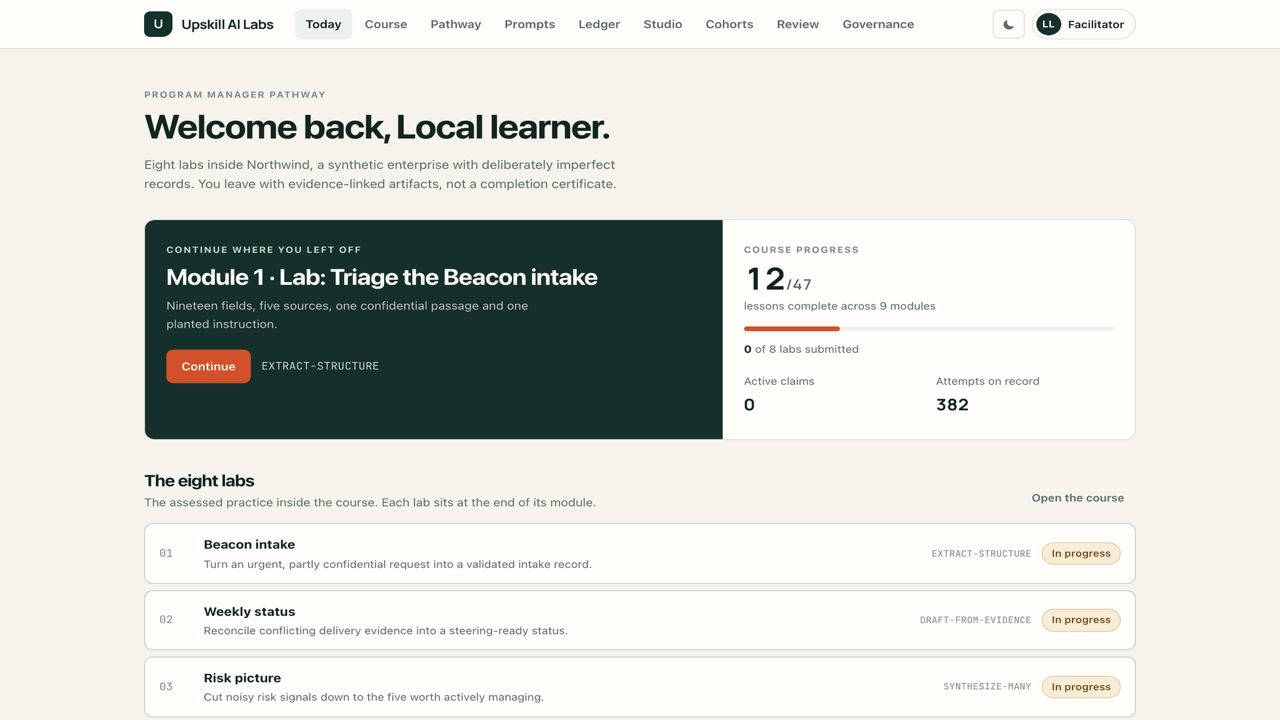
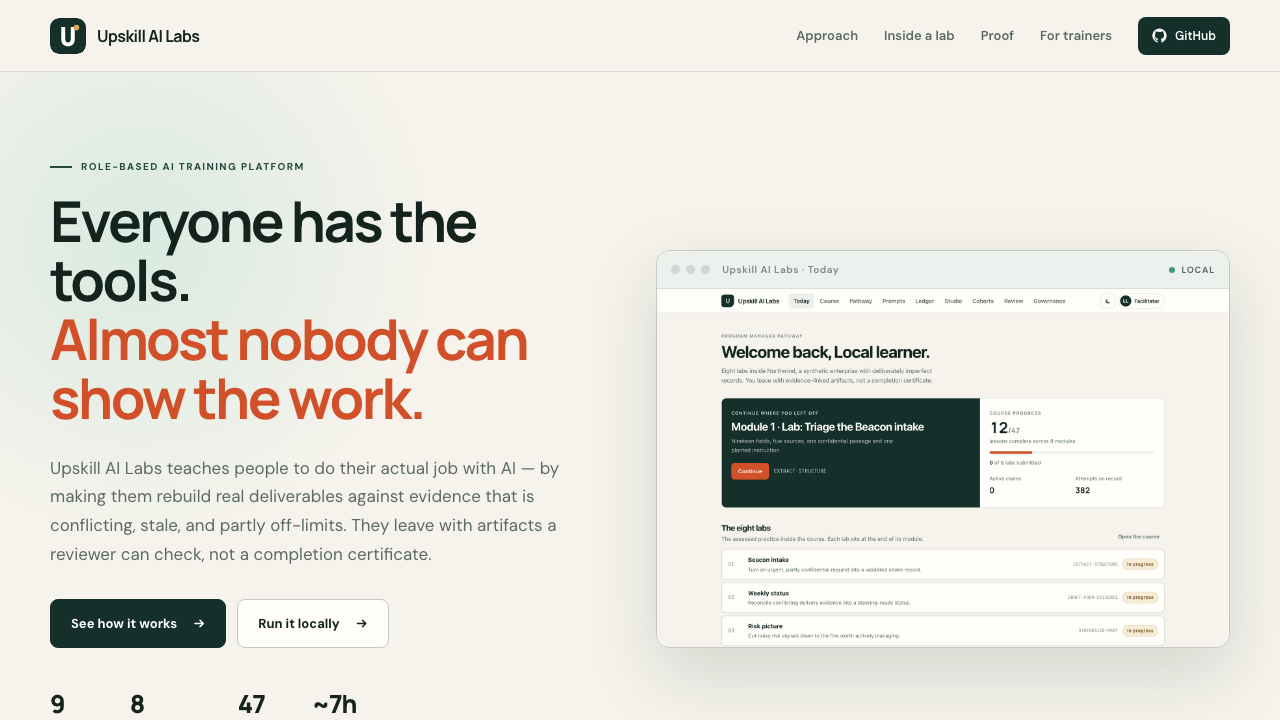
Add two articles, refine About copy, fix Upskill card image
- Replace the Upskill screenshot with the project landing page so the
  card stays legible at mobile widths, matching the other project cards
- Rewrite the About "How I work" copy and give the statement block a
  lead/support type hierarchy with sane measure and leading
- Add the two newest Medium articles, renumber the grid to 07, and add
  the missing rule that makes the trailing wide card span the row

diff --git a/articles.html b/articles.html
@@ -65,10 +65,58 @@
       <section class="writing-section" aria-labelledby="writing-title">
         <div class="section-heading">
           <h2 id="writing-title">Medium articles</h2>
-          <span>05</span>
+          <span>07</span>
         </div>
 
         <div class="article-grid">
+          <div class="article-embed-shell">
+            <a
+              class="article-card"
+              href="https://medium.com/@cris.santiago/your-personal-project-can-stand-on-its-own-two-feet-48994c080680"
+              target="_blank"
+              rel="noreferrer"
+            >
+            <div class="article-meta">
+              <span>Careers + AI</span>
+              <time datetime="2026-08-11">Aug 11, 2026</time>
+            </div>
+            <span class="article-number" aria-hidden="true">01</span>
+            <h2>Your Personal Project Can Stand on Its Own Two Feet</h2>
+            <p>
+              Why free tools and a real side project prove more about an
+              engineer than credentials do in an AI-shaped job market.
+            </p>
+            <span class="article-link">
+              Read on Medium <i aria-hidden="true">↗</i>
+            </span>
+            </a>
+          </div>
+
+          <div class="article-embed-shell">
+            <a
+              class="article-card"
+              href="https://medium.com/@cris.santiago/your-analysts-shouldnt-need-a-tech-degree-to-troubleshoot-apptio-a4ac0a5e1e32"
+              target="_blank"
+              rel="noreferrer"
+            >
+            <div class="article-meta">
+              <span>Enterprise AI</span>
+              <time datetime="2026-08-10">Aug 10, 2026</time>
+            </div>
+            <span class="article-number" aria-hidden="true">02</span>
+            <h2>
+              Your Analysts Shouldn’t Need a Tech Degree to Troubleshoot Apptio
+            </h2>
+            <p>
+              Turning IBM documentation into symptom-first skills that route
+              analysts to a cited answer instead of a feature manual.
+            </p>
+            <span class="article-link">
+              Read on Medium <i aria-hidden="true">↗</i>
+            </span>
+            </a>
+          </div>
+
           <div class="article-embed-shell">
             <a
               class="article-card"
@@ -80,7 +128,7 @@
               <span>AI + Finance</span>
               <time datetime="2026-03-13">Mar 13, 2026</time>
             </div>
-            <span class="article-number" aria-hidden="true">01</span>
+            <span class="article-number" aria-hidden="true">03</span>
             <h2>How AI Can Help Bridge the Gap Between Tech and Finance</h2>
             <p>
               Using evidence-based classification to turn technical intent
@@ -103,7 +151,7 @@
               <span>AI Security</span>
               <time datetime="2026-03-13">Mar 13, 2026</time>
             </div>
-            <span class="article-number" aria-hidden="true">02</span>
+            <span class="article-number" aria-hidden="true">04</span>
             <h2>
               How Are You Protecting Your AI Agents From Prompt Injection?
             </h2>
@@ -128,7 +176,7 @@
               <span>Local AI</span>
               <time datetime="2026-03-11">Mar 11, 2026</time>
             </div>
-            <span class="article-number" aria-hidden="true">03</span>
+            <span class="article-number" aria-hidden="true">05</span>
             <h2>OpenClaw Docker Sandbox</h2>
             <p>
               Isolating agent execution inside a Docker Sandbox microVM while
@@ -151,7 +199,7 @@
               <span>Product Strategy</span>
               <time datetime="2025-09-18">Sep 18, 2025</time>
             </div>
-            <span class="article-number" aria-hidden="true">04</span>
+            <span class="article-number" aria-hidden="true">06</span>
             <h2>Is Your MVP Failing—or Just Off-Track?</h2>
             <p>
               Reframing MVPs as learning systems with evidence-based
@@ -174,7 +222,7 @@
               <span>Agile Delivery</span>
               <time datetime="2025-06-09">Jun 9, 2025</time>
             </div>
-            <span class="article-number" aria-hidden="true">05</span>
+            <span class="article-number" aria-hidden="true">07</span>
             <h2>Progress Isn’t Linear—Here’s How I Show It</h2>
             <p>
               Using burn-up charts to show delivery and changing scope in one

diff --git a/about.html b/about.html
@@ -118,18 +118,16 @@
         <div class="about-story-grid">
           <div class="about-statement">
             <p>
-              My career started close to the technology—as a computer science
-              student, AI data intern, and software engineer. That foundation
-              still shapes how I lead: understand the system, make the tradeoffs
-              visible, and keep strategy connected to what teams can actually
-              deliver.
+              I started out building the systems I now help leaders decide
+              about, and that grounding still sets my approach: learn how the
+              thing actually works, put the trade-offs on the table early, and
+              keep the strategy tied to what teams can realistically ship.
             </p>
             <p>
-              Today I advise director, VP, and C-suite stakeholders on
-              enterprise portfolios, product delivery, customer outcomes, and
-              transformation. I am most useful when the problem crosses
-              organizational boundaries and needs both executive clarity and
-              technical credibility.
+              Today I partner with director, VP, and C-suite stakeholders on
+              enterprise portfolios, product delivery, and transformation. The
+              work I am best at sits between teams—where a decision needs
+              executive clarity and technical credibility at the same time.
             </p>
           </div>
           <div class="capability-list" aria-label="Core capabilities">

diff --git a/styles.css b/styles.css
@@ -468,6 +468,10 @@ footer {
   min-width: 0;
 }
 
+.article-embed-shell--wide {
+  grid-column: 1 / -1;
+}
+
 .article-card {
   display: flex;
   height: 100%;
@@ -692,19 +696,28 @@ footer {
 }
 
 .about-statement {
+  display: flex;
+  flex-direction: column;
+  justify-content: center;
+  gap: 26px;
   padding: clamp(28px, 4vw, 48px);
 }
 
 .about-statement p {
-  margin-bottom: 24px;
-  font-size: clamp(1.18rem, 2.1vw, 1.55rem);
-  line-height: 1.48;
-  letter-spacing: -0.025em;
+  max-width: 44ch;
+  margin: 0;
+  font-size: clamp(1.14rem, 1.9vw, 1.42rem);
+  line-height: 1.54;
+  letter-spacing: -0.022em;
+  text-wrap: pretty;
 }
 
 .about-statement p:last-child {
-  margin-bottom: 0;
+  max-width: 48ch;
   color: var(--muted);
+  font-size: clamp(1rem, 1.5vw, 1.14rem);
+  line-height: 1.66;
+  letter-spacing: -0.012em;
 }
 
 .capability-list {
